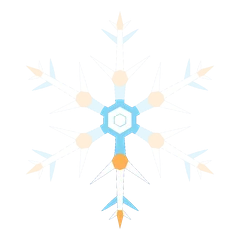
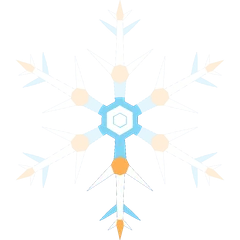
Uusi pääkuva: tie tähteen ja rajattu hiutale
Pääkuva, jakokuva, kuvakkeet ja kisojen hiutaleet tehdään nyt
Mediatehtaan TalviCup-kirjastosta.

diff --git a/docs/index.html b/docs/index.html
@@ -25,7 +25,7 @@
 @font-face { font-family: "Saira Condensed"; font-weight: 700; font-display: swap; src: url("assets/fontit/SairaCondensed-Bold.woff") format("woff"); }
 @font-face { font-family: "Saira Condensed"; font-weight: 900; font-display: swap; src: url("assets/fontit/SairaCondensed-Black.woff") format("woff"); }
 
-/* Layout: the cabin hero sets the mood; below it a calm polar-night column where the six-race list carries the page. */
+/* Layout: the hero is the road to the star (the flake); below it a calm polar-night column where the six-race list carries the page. */
 :root {
   --bg: #03102e; --band: #071d48; --line: #1c3f78;
   --fg: #fbfdff; --soft: #b7d3ea; --ice: #84d5f6; --cup: #00c2ff; --amber: #ffb054;
@@ -43,7 +43,7 @@ h1, h2, h3, p, ul, ol, dl, dd { margin: 0; padding: 0; }
 .wrap { max-width: 1040px; margin: 0 auto; padding-inline: max(16px, env(safe-area-inset-left, 0px)) max(16px, env(safe-area-inset-right, 0px)); }
 
 .hero { position: relative; min-height: min(100svh, 860px); display: flex; align-items: flex-start; isolation: isolate; overflow: hidden; }
-.hero picture, .hero picture img { position: absolute; inset: 0; width: 100%; height: 100%; object-fit: cover; object-position: 70% 100%; z-index: -1; }
+.hero picture, .hero picture img { position: absolute; inset: 0; width: 100%; height: 100%; object-fit: cover; object-position: 72% 60%; z-index: -1; }
 .hero .wrap { width: 100%; padding-block: clamp(32px, 7vh, 84px) 32px; }
 .hero h1 { width: min(560px, 88%); margin-top: 12px; }
 .kick { font: 600 1rem/1.2 var(--display); letter-spacing: .17em; text-transform: uppercase; color: var(--ice); }
@@ -94,7 +94,7 @@ footer img { width: 160px; margin-bottom: 12px; }
 @media (max-width: 800px) {
   body { font-size: 18px; }
   .hero { min-height: 88svh; }
-  .hero picture img { object-position: 50% 100%; }
+  .hero picture img { object-position: 50% 70%; }
   .btn { padding: 10px 14px 11px; font-size: 1rem; }
   .race { grid-template-columns: 68px minmax(0, 1fr); gap: 2px 14px; align-items: start; }
   .race img { width: 68px; height: 68px; grid-row: span 3; }
@@ -112,7 +112,7 @@ footer img { width: 160px; margin-bottom: 12px; }
 <header class="hero">
   <picture>
     <source media="(max-width: 800px)" srcset="assets/hero_pysty.webp">
-    <img src="assets/hero.webp" width="2000" height="1125" alt="Punainen mökki talviyössä lumisen metsän reunassa. Ikkunassa palaa valo, ja piipusta nousee savua.">
+    <img src="assets/hero.webp" width="2000" height="1125" alt="Luminen tie kaartaa yöllisen kuusimetsän läpi kohti kirkasta tähteä, joka on TalviCupin lumihiutale.">
   </picture>
   <div class="wrap">
     <p class="kick">E-pyöräilyn Suomen Cup · 2027</p>

diff --git a/tyokalut/tee_kuvat.py b/tyokalut/tee_kuvat.py
@@ -1,25 +1,26 @@
 """Render the site's images and web fonts from the TalviCup identity kit.
 
-Run from the workspace root: py -3.11 talvicup_fi/tyokalut/tee_kuvat.py
-Needs the sibling repos rcf_mediatehdas (K24 kit) and rideclubfinland_materiaalipankki (fonts).
+Run from the workspace root with the Mediatehdas environment (the kit needs its packages):
+    uv run --project rcf_mediatehdas python talvicup_fi/tyokalut/tee_kuvat.py [kuvat|fontit]
+Needs the sibling repos rcf_mediatehdas (generaattorit/talvicup_kit.py) and rideclubfinland_materiaalipankki (fonts).
+The identity is the road to the star (C) and the cropped flake (D), decided 1.11.2026 (rcf_talvicup/docs/ilme.md).
 """
 import sys
 from pathlib import Path
 
-from fontTools import subset
 from PIL import Image
 
 SITE = Path(__file__).resolve().parents[1] / "docs" / "assets"
 WORKSPACE = SITE.parents[2]
-sys.path.insert(0, str(WORKSPACE / "rcf_mediatehdas" / "kokeet" / "K24_talvicup_ilme"))
-import ilme  # noqa: E402
-import recraft_vedos as rv  # noqa: E402
+sys.path.insert(0, str(WORKSPACE / "rcf_mediatehdas" / "generaattorit"))
+import talvicup_kit as tk  # noqa: E402
 
 FONT_SRC = WORKSPACE / "rideclubfinland_materiaalipankki" / "brandi" / "fontit" / "saira_condensed"
 LATIN = "U+0020-007E,U+00A0-00FF,U+2013,U+2014,U+2019,U+2026,U+2192,U+00B7"
 
 
 def fonts():
+    from fontTools import subset
     for weight in ("Black", "Bold", "SemiBold", "Medium", "Regular"):
         out = SITE / "fontit" / f"SairaCondensed-{weight}.woff"
         subset.main([str(FONT_SRC / f"SairaCondensed-{weight}.ttf"), f"--unicodes={LATIN}", "--flavor=woff",
@@ -27,26 +28,37 @@ def fonts():
 
 
 def images():
-    # Cabin small and far right so the headline stays on open sky at laptop widths.
-    rv.ilta((2000, 1125), .76, .76, .36, 130).save(SITE / "hero.webp", quality=80, method=6)
-    rv.ilta((1080, 1500), .84, .5, .66, 90).save(SITE / "hero_pysty.webp", quality=78, method=6)
-    ilme.wordmark_img(1000).save(SITE / "sanamerkki.webp", quality=92, method=6)
-    full = rv.flake_from_arm()
-    full.resize((640, 640), Image.LANCZOS).save(SITE / "hiutale.webp", quality=90, method=6)
-    for r in ilme.RACES:
-        rv.flake_from_arm((r["n"],)).resize((240, 240), Image.LANCZOS).save(SITE / f"hiutale_{r['n']}.webp", quality=88, method=6)
+    # Desktop: the headline sits on the open sky to the left, the star and its road on the right third.
+    W, H = 2000, 1125
+    tk.tie((W, H), star_xy=(W * .72, H * .38), star_size=240, horizon=.8, road_x=W * .72).save(
+        SITE / "hero.webp", quality=80, method=6)
+    # Phone: the headline fills the top, so the star stands lower, above the road's vanishing point.
+    W, H = 1080, 1500
+    tk.tie((W, H), star_xy=(W / 2, H * .66), star_size=200, horizon=.8).save(SITE / "hero_pysty.webp", quality=78, method=6)
+    tk.wordmark(1000).save(SITE / "sanamerkki.webp", quality=92, method=6)
 
-    share = rv.ilta((1200, 630), .78, .74, .4, 90).convert("RGBA")
-    mark = ilme.wordmark_img(560)
-    share.alpha_composite(mark, (64, 96))
-    share.convert("RGB").save(SITE / "jako.jpg", quality=84, optimize=True)
+    full = tk.flake(640)
+    full.save(SITE / "hiutale.webp", quality=90, method=6)
+    for r in tk.races():
+        tk.flake(240, active=(r["n"],)).save(SITE / f"hiutale_{r['n']}.webp", quality=88, method=6)
 
-    tile = Image.new("RGBA", (180, 180), ilme.POLAR + (255,))
-    tile.alpha_composite(full.resize((156, 156), Image.LANCZOS), (12, 12))
+    # Link preview (1200x630): the cropped flake (D) and the wordmark, readable as a thumbnail.
+    share = tk.rajattu((1200, 630), base=.9)
+    wm = tk.wordmark(560)
+    share = tk.over(share, wm, (64, 220))
+    d = tk.ImageDraw.Draw(share)
+    tk.kick(d, 70, 220 + wm.height + 60, "E-PYÖRÄILYN SUOMEN CUP  ·  3.12.–28.1.", 30, tk.ICE)
+    share.save(SITE / "jako.jpg", quality=84, optimize=True)
+
+    tile = Image.new("RGBA", (180, 180), tk.POLAR + (255,))
+    tile.alpha_composite(tk.flake(156), (12, 12))
     tile.convert("RGB").save(SITE / "apple-touch-icon.png", optimize=True)
     tile.resize((48, 48), Image.LANCZOS).convert("RGB").save(SITE / "favicon.png", optimize=True)
 
 
 if __name__ == "__main__":
-    fonts()
-    images()
+    which = sys.argv[1] if len(sys.argv) > 1 else "kuvat"
+    if which in ("fontit", "kaikki"):
+        fonts()
+    if which in ("kuvat", "kaikki"):
+        images()

diff --git a/AGENTS.md b/AGENTS.md
@@ -10,7 +10,7 @@ Tämä repo sisältää vain sivun.
 | `docs/index.html` | Koko sivu. Pages julkaisee vain `docs/`-kansion. |
 | `docs/assets/` | Kuvat ja fontit (Saira Condensed, SIL OFL) |
 | `docs/CNAME` | Pagesin oma domain |
-| `tyokalut/tee_kuvat.py` | Renderöi kuvat ja fontit: `py -3.11 talvicup_fi/tyokalut/tee_kuvat.py` juuresta |
+| `tyokalut/tee_kuvat.py` | Renderöi kuvat (ja fontit `fontit`-argumentilla) Mediatehtaan TalviCup-kirjastosta: `uv run --project rcf_mediatehdas python talvicup_fi/tyokalut/tee_kuvat.py` juuresta |
 
 ## Säännöt
 
